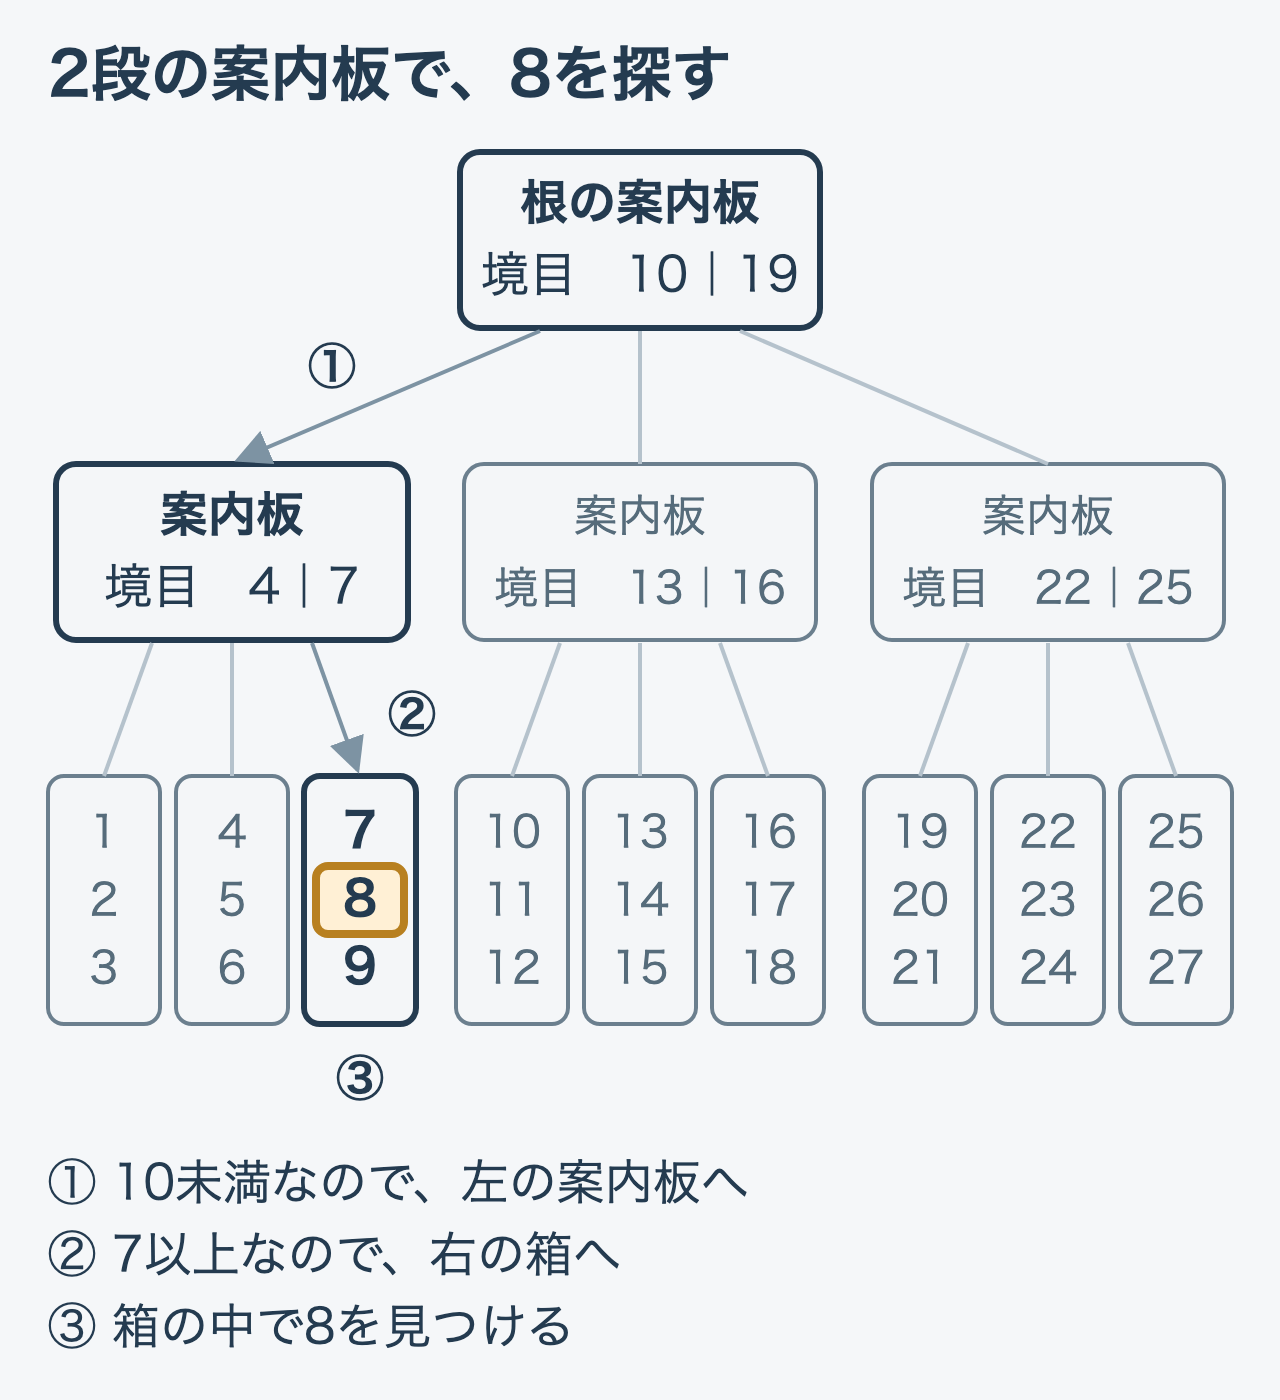
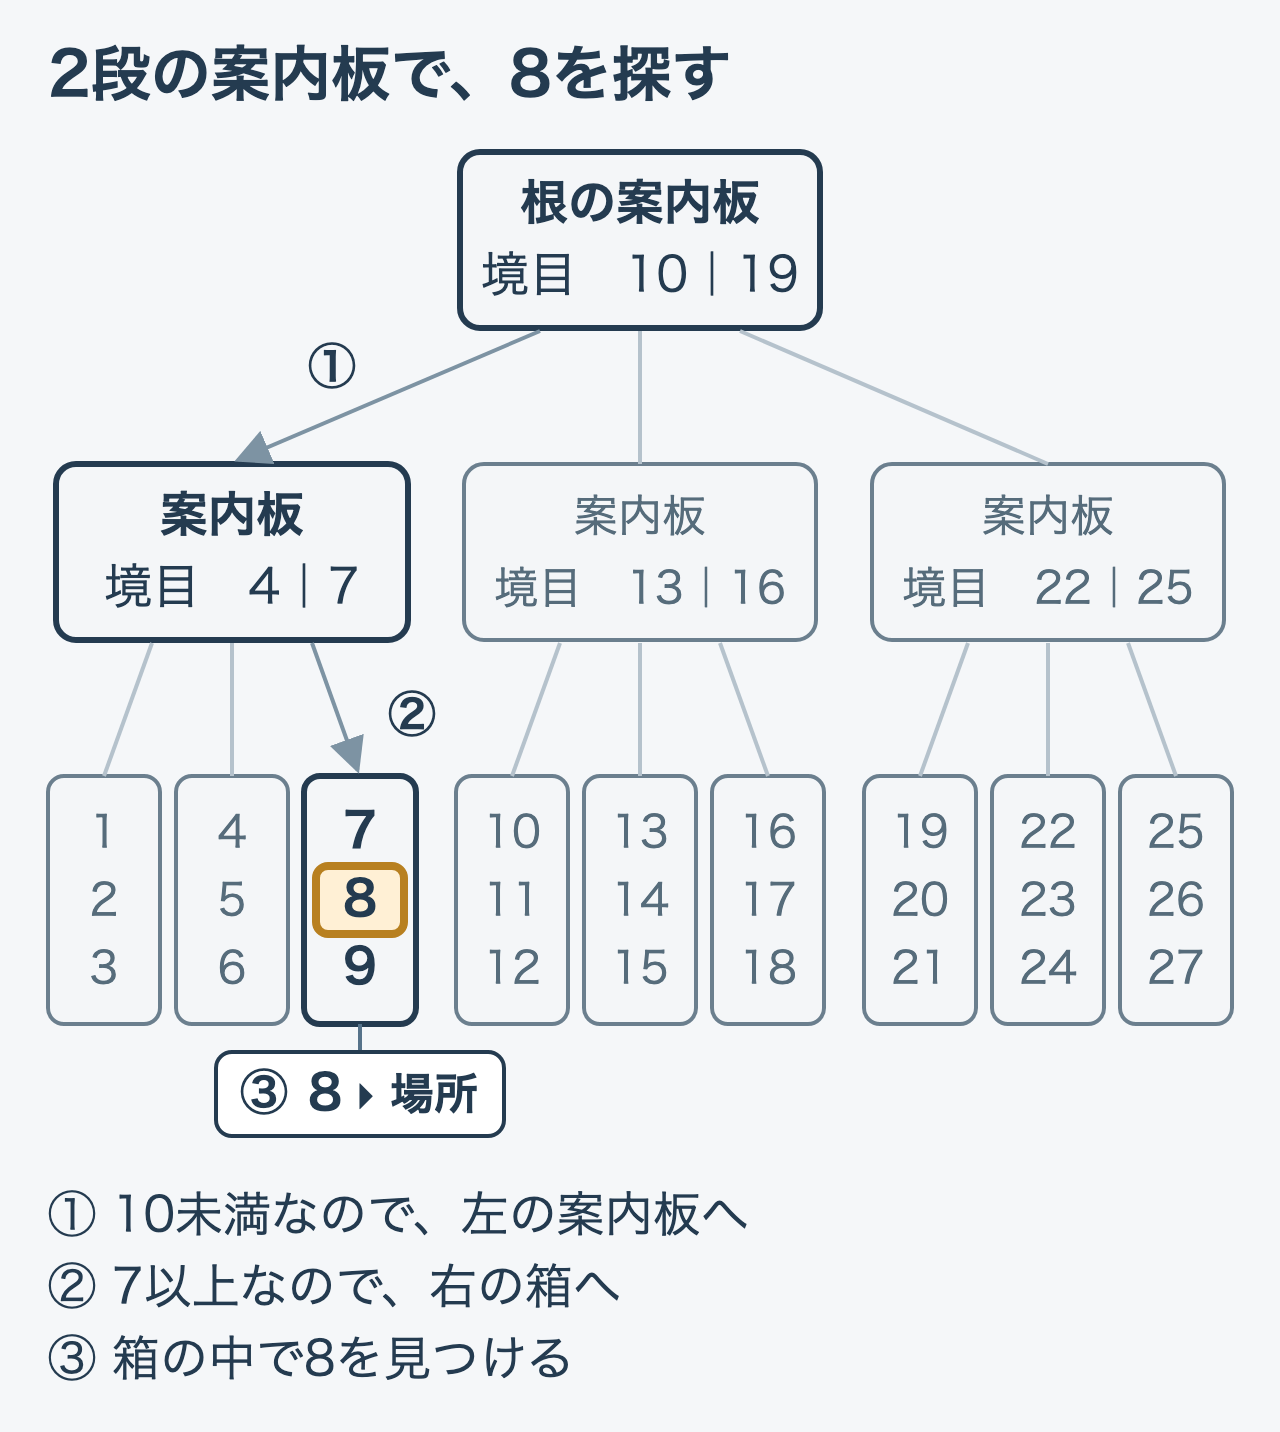
docs(query-journey): 第3章の2段の案内板の図に、見つけた8の場所の札を付ける
確かめ直しの次点。1段の図 06-btree-path と範囲の図 06-range-scan は葉の値に
「▸ 場所」の札があるのに、間の 06-two-level-path だけ札がなく、見比べると札が
消えたように見えた。太枠の箱の下に「③ 8 ▸ 場所」の札を足し、手順の行を少し
下げた。代替テキストとキャプションも、③の札がテーブルのレコードの場所だと
分かる形にした。

diff --git a/books/postgresql-query-journey/03-btree-index.md b/books/postgresql-query-journey/03-btree-index.md
@@ -36,8 +36,8 @@ PostgreSQLの**B-tree Index**は、値の範囲で進む先を選ぶこの構造
 
 番号1〜27を九つの箱に分けた例で、8を探す道すじをたどってください。
 
-![根の案内板で10未満なので左の案内板を選び、その案内板で7以上なので右の箱を選び、箱の中で8を見つける。ほかの二つの案内板と八つの箱は読まない](/images/postgresql-query-journey/06-two-level-path.png)
-*読むのは太枠の案内板2枚と箱1個だけで、細い枠の案内板と箱は読みません（番号1〜27で説明するための図）。*
+![根の案内板で10未満なので左の案内板を選び、その案内板で7以上なので右の箱を選び、箱の中で8と、そのテーブルの場所を見つける。ほかの二つの案内板と八つの箱は読まない](/images/postgresql-query-journey/06-two-level-path.png)
+*読むのは太枠の案内板2枚と箱1個だけで、細い枠の案内板と箱は読みません。③の「▸ 場所」は、前の図と同じく、テーブルのレコードの場所です（番号1〜27で説明するための図）。*
 
 実際のIndexでは、案内板も箱も「ページ」というデータのまとまりです。葉のページには、探す値と、テーブルのどこにレコードがあるかという情報が入っています。第1章の図で、Indexの項目42から本42のレコードへ伸びていた矢印は、この情報をたどったものです。ページの大きさとレコードの場所は、第4章で調べます。いまは「案内板で範囲を絞り、必要な箱だけを読む」という動きを押さえてください。
 
